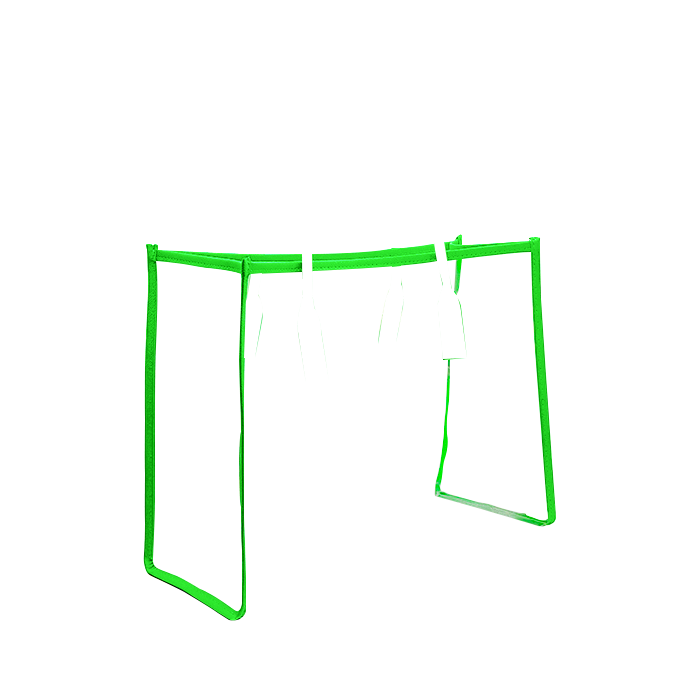
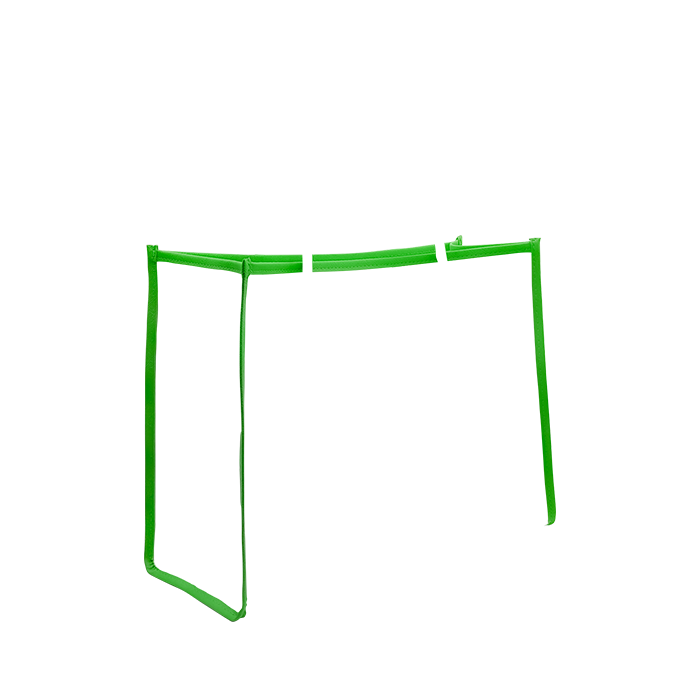
remoção de produtos
removi algumas imagens que estavam péssimas

Changed region(s): [[0.18, 0.33, 0.81, 0.9], [0.63, 0.51, 0.66, 0.66]]

diff --git a/assets/script/object.js b/assets/script/object.js
@@ -35,23 +35,16 @@ class MoldProduct {
 
 // Lista com os produtos para serem iterados, as pastas com as partes do produtos devem ser nomeadas em camelCase e identica aos itens deste array, AJUSTE DENTRO DAS CONDIÇÕES DA REPETIÇÃO
 const listProduct = [
-  //bolsas
   "bolsaPraiaDuo",
   "bolsaTripCongresso",
   "bolsaPst",
   "bolsaGraci",
   "bolsaPraiaMiu",
-  "bolsaAcademia",
-  "bolsaCarteiroHb",
-  "bolsaColg",
-  "bolsaPsico",
-  "bolsaSBag",
 
   //estojo
   "estojoTriang",
 
   //diversos
-  "miniBagVani",
   "organizadorWish",
 
   //necessaire
@@ -68,7 +61,6 @@ const listProduct = [
   "termicaJl",
   "termicaAeTri",
   "termicaGer",
-  "termicaMiu",
 
   //mochila
   "mochilaAdvGrande",
@@ -86,17 +78,11 @@ const listMedidas = [
   "Lar - 20cm | Alt - 00cm | Comp - 00cm", //bolsaPst
   "Lar - 20cm | Alt - 00cm | Comp - 00cm", //bolsaGraci
   "Lar - 20cm | Alt - 00cm | Comp - 00cm", //bolsaPraiaMiu
-  "Lar - 20cm | Alt - 00cm | Comp - 00cm", //bolsaAcademia
-  "Lar - 20cm | Alt - 00cm | Comp - 00cm", //bolsaCarteiroHb
-  "Lar - 20cm | Alt - 00cm | Comp - 00cm", //bolsaColg
-  "Lar - 20cm | Alt - 00cm | Comp - 00cm", //bolsaPsico
-  "Lar - 20cm | Alt - 00cm | Comp - 00cm", //bolsaSBag
 
   //estojo
   "Lar - 30cm | Alt - 00cm | Comp - 00cm", //estojoTriang
 
   //diversos
-  "Lar - 40cm | Alt - 00cm | Comp - 00cm", //miniBagVani
   "Lar - 40cm | Alt - 00cm | Comp - 00cm", //organizadorWish
 
   //necessaire
@@ -113,7 +99,6 @@ const listMedidas = [
   "Lar - 60cm | Alt - 00cm | Comp - 00cm", //termicaJl
   "Lar - 60cm | Alt - 00cm | Comp - 00cm", //termicaAeTri
   "Lar - 60cm | Alt - 00cm | Comp - 00cm", //termicaGer
-  "Lar - 60cm | Alt - 00cm | Comp - 00cm", //termicaMiu
 
   //mochila
   "Lar - 60cm | Alt - 00cm | Comp - 00cm", //mochilaAdvGrande
@@ -131,17 +116,11 @@ const listInfoProduct = [
   "esta é outra bolsa", //bolsaPst
   "esta é outra bolsa", //bolsaGraci
   "esta é outra bolsa", //bolsaPraiaMiu
-  "esta é outra bolsa", //bolsaAcademia
-  "esta é outra bolsa", //bolsaCarteiroHb
-  "esta é outra bolsa", //bolsaColg
-  "esta é outra bolsa", //bolsaPsico
-  "esta é outra bolsa", //bolsaSBag
   
   //estojo
   "este é um estojo", //estojoTriang
 
   //diversos
-  "e isso uma minibag", //miniBagVani
   "e isso uma organizador", //organizadorWish
 
   //necessaire
@@ -157,7 +136,6 @@ const listInfoProduct = [
   "e essa é uma térmica", //termicaJl
   "e essa é uma térmica", //termicaAeTri
   "e essa é uma térmica", //termicaGer
-  "e essa é uma térmica", //termicaMiu
 
   //mochila
   "e essa é uma mochila", //mochilaAdvGrande
@@ -204,18 +182,12 @@ for (let i = 0; i < listProduct.length; i++) {
     nome === "bolsaPst" ||
     nome === "bolsaTripCongresso" ||
     nome === "bolsaGraci" ||
-    nome === "bolsaAcademia" ||
-    nome === "bolsaCarteiroHb" ||
-    nome === "bolsaColg" ||
-    nome === "bolsaPsico" ||
     nome === "bolsaPst" ||
-    nome === "bolsaSBag" ||
     
     //estojo
     nome === "estojoTriang" ||
 
     //diversos
-    nome === "miniBagVani" ||
     
 
     //mochila
@@ -232,7 +204,6 @@ for (let i = 0; i < listProduct.length; i++) {
     nome === "termicaJl" ||
     nome === "termicaAeTri" ||
     nome === "termicaGer" ||
-    nome === "termicaMiu" ||
     
     //carteira
     nome === "carteiraSlim"
@@ -250,22 +221,15 @@ for (let i = 0; i < listProduct.length; i++) {
     nome === "bolsaPst" ||
     nome === "bolsaGraci" ||
     nome === "bolsaPraiaMiu" ||
-    nome === "bolsaAcademia" ||
-    nome === "bolsaCarteiroHb" ||
-    nome === "bolsaColg" ||
-    nome === "bolsaPsico" ||
     nome === "bolsaPst" ||
-    nome === "bolsaSBag" ||
     
 
     //diversos
-    nome === "miniBagVani" ||
 
     //termica
     nome === "termicaJl" ||
     nome === "termicaAeTri" || 
     nome === "termicaGer" || 
-    nome === "termicaMiu" ||
 
     //necessaire
     nome === "necessaireCn"
@@ -278,16 +242,10 @@ for (let i = 0; i < listProduct.length; i++) {
   if (
     nome === "estojoTriang" ||
     nome === "bolsaTripCongresso" ||
-    nome === "miniBagVani" ||
     nome === "necessaireEvBolso" ||
-    nome === "bolsaAcademia" ||
-    nome === "bolsaColg" ||
-    nome === "bolsaPsico" ||
-    nome === "bolsaSBag" ||
 
     nome === "termicaJl" ||
     nome === "termicaGer" ||
-    nome === "termicaMiu" ||
 
     nome === "mochilaAdvGrande" ||
 
@@ -305,10 +263,6 @@ for (let i = 0; i < listProduct.length; i++) {
   // adiciona bolso aos aos produtos relativos
   if (
     //bolsa
-    nome === "bolsaCarteiroHb" ||
-    nome === "bolsaColg" ||
-    nome === "bolsaPsico" ||
-    nome === "bolsaSBag" ||
 
     //necessaire
     nome === "necessaireEvBolso" ||
@@ -324,12 +278,9 @@ for (let i = 0; i < listProduct.length; i++) {
   // adiciona vivo aos aos produtos relativos
   if (
     //bolsa
-    nome === "bolsaAcademia" ||
-    nome === "bolsaCarteiroHb" ||
 
     //termica
     nome === "termicaJl" ||
-    nome === "termicaMiu" ||
 
     //necessaire
     nome === "necessaireCn" ||
@@ -355,9 +306,7 @@ for (let i = 0; i < listProduct.length; i++) {
     nome === "bolsaPraiaDuo" ||
     nome === "mochilaAdvGrande" ||
     nome === "necessaireVaniDuo" ||
-    nome === "bolsaPraiaMiu" ||
-    nome === "bolsaColg" ||
- 
+    nome === "bolsaPraiaMiu" || 
 
     nome === "termicaAeTri" ||
     nome === "termicaGer"
